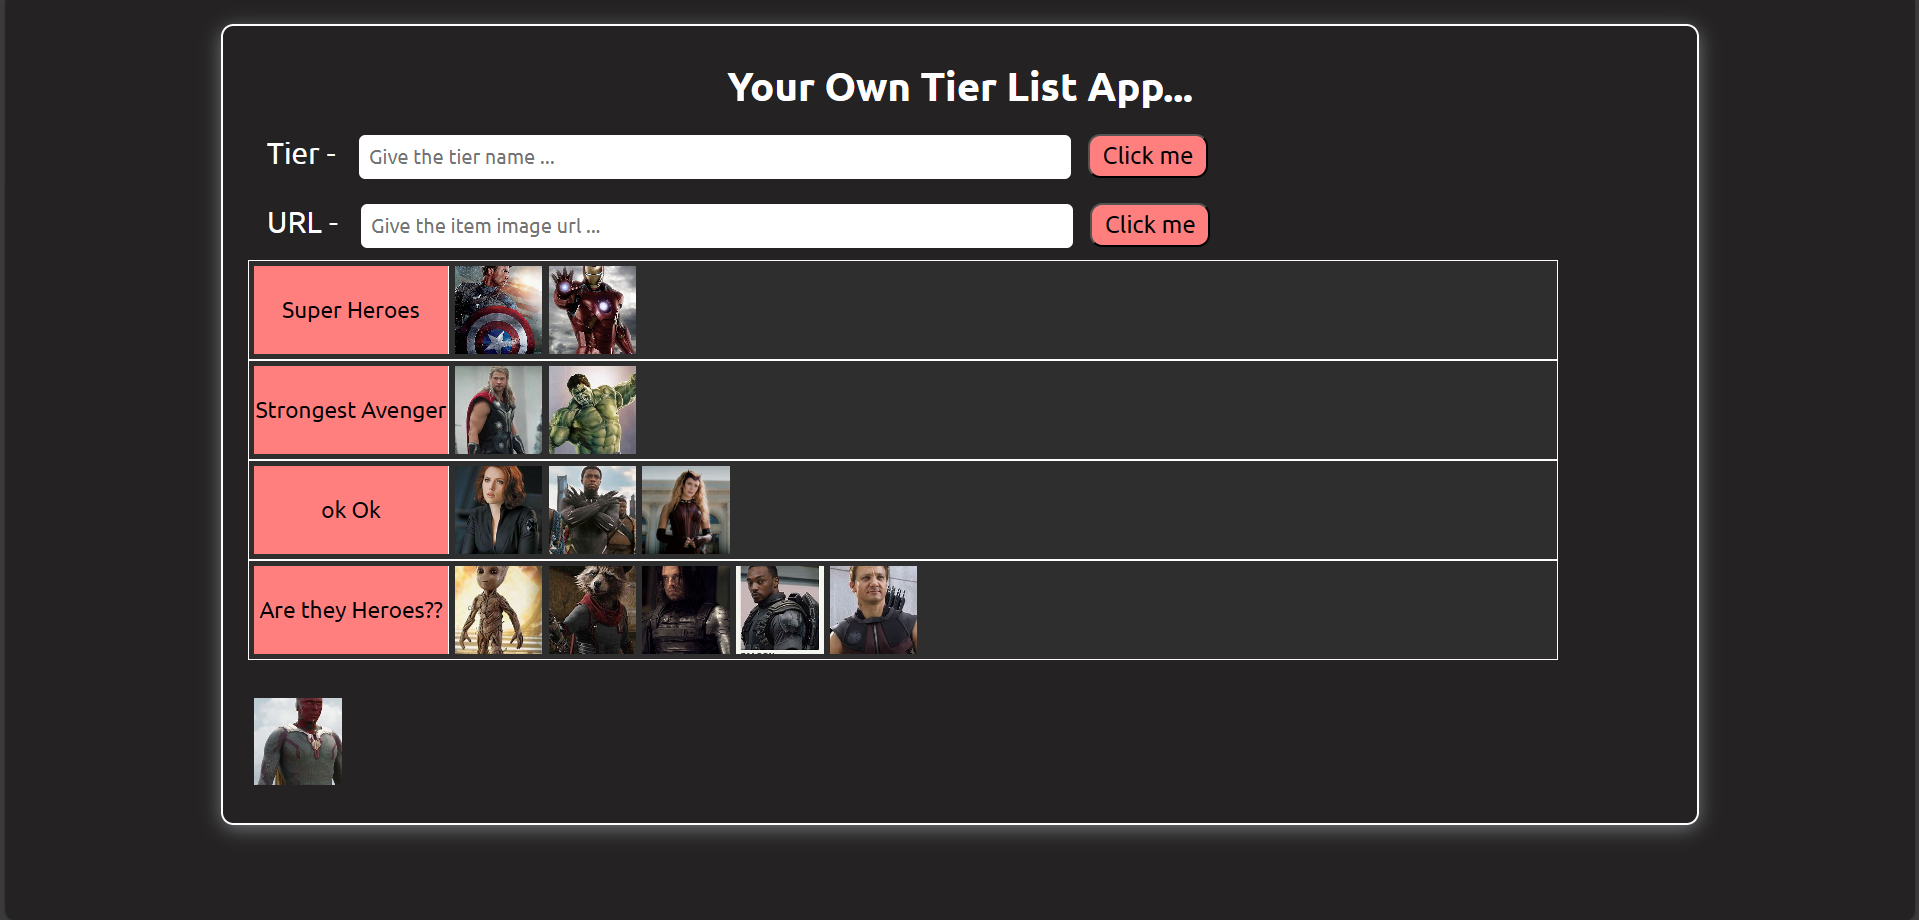
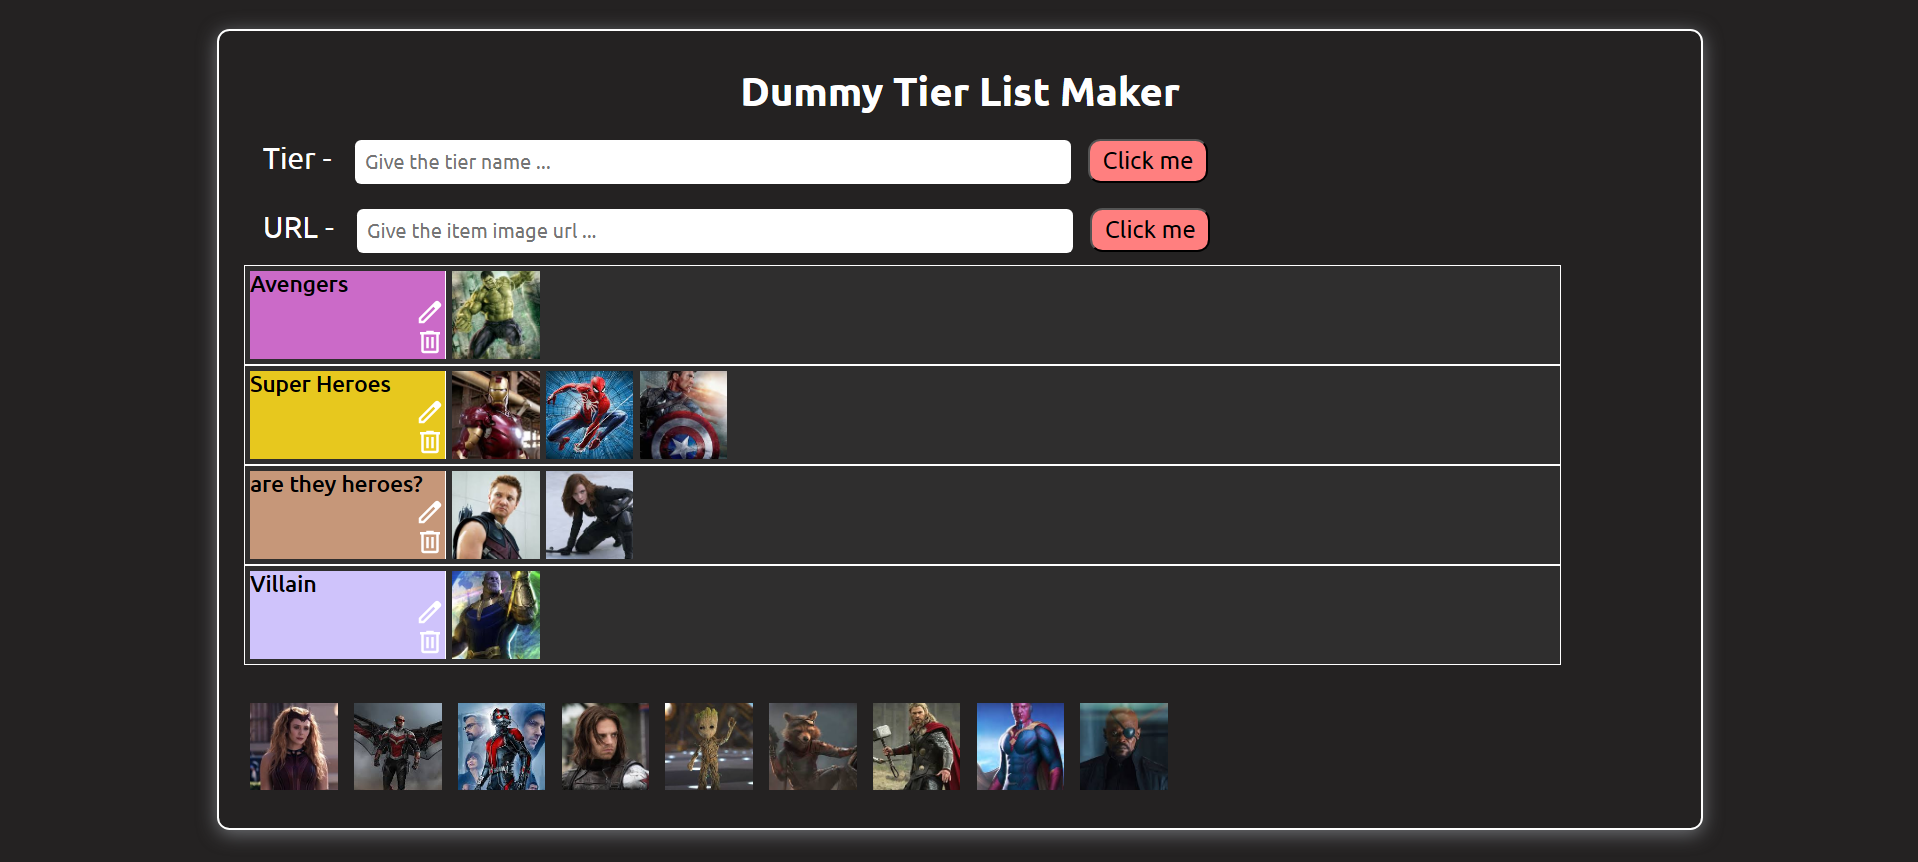
added edit,delete and storage functionality

Changed region(s): [[0.0923, 0.0, 0.8921, 0.9954], [0.9844, 0.9954, 1.0, 1.0]]

diff --git a/script.js b/script.js
@@ -10,8 +10,11 @@ const submitBtn = document.getElementById('submit');
 
 const imageForm = document.getElementById('image-form');
 
+const tierSection = document.getElementById('tier-list-section');
+const nonTierSection = document.getElementById('non-tier-section');
 
-for(const itemContainer of itemContainers) {
+
+for (const itemContainer of itemContainers) {
     setUpItemContainerForDrag(itemContainer);
 }
 
@@ -21,24 +24,28 @@ for(const itemContainer of itemContainers) {
 imageForm.addEventListener('submit', (event) => {
     event.preventDefault();
     const imageItemInput = document.getElementById('image-item');
-    if(imageItemInput.value === '') {
+    if (imageItemInput.value === '') {
         alert('Please enter a valid image url');
         return;
     }
     const imageUrl = imageItemInput.value;
     createTierListItem(imageUrl);
     imageItemInput.value = '';
+
+    saveTierLists()
 });
 
 submitBtn.addEventListener('click', (event) => {
     event.preventDefault(); // stops the default behaviour of the event
     // To get access of the element on which this event was fired
-    if(tierInput.value === '') {
+    if (tierInput.value === '') {
         alert('Please enter a tier name');
         return;
     }
     createTierList(tierInput.value);
     tierInput.value = '';
+
+    saveTierLists()
 });
 
 function createTierList(tierListName) {
@@ -63,8 +70,58 @@ function createTierList(tierListName) {
 
     setUpDropZoneInTierListItem(newTierListItems);
 
-    const tierSection = document.getElementById('tier-list-section');
+    // const tierSection = document.getElementById('tier-list-section');
     tierSection.appendChild(newTierList);
+
+
+    // random color generator on the Heading names
+
+    let color = []
+    for (let i = 0; i < 3; i++) {
+        color.push(Math.floor(Math.random() * 255));
+    }
+
+    // console.log(color);
+    heading.style.backgroundColor = 'rgb(' + color.join(',') + ')';
+
+    // heading.style.color = "" || "White"
+
+    // Making heading editable
+    // heading.contentEditable = true;
+
+    // EDIT icon
+    const editIcon = document.createElement('span');
+    editIcon.classList.add('material-symbols-outlined', 'g-icons')
+    editIcon.style.color = "#FFFFFF"
+    editIcon.style.cursor = "pointer"
+    editIcon.title = "Edit"
+    editIcon.innerHTML = '<svg xmlns="http://www.w3.org/2000/svg" height="24px" viewBox="0 -960 960 960" width="24px" fill="#ffffff"><path d="M200-200h57l391-391-57-57-391 391v57Zm-80 80v-170l528-527q12-11 26.5-17t30.5-6q16 0 31 6t26 18l55 56q12 11 17.5 26t5.5 30q0 16-5.5 30.5T817-647L290-120H120Zm640-584-56-56 56 56Zm-141 85-28-29 57 57-29-28Z"/></svg>'
+    heading.appendChild(editIcon);
+    editIcon.addEventListener('click', () => {
+        heading.contentEditable = true;
+    })
+
+    // Delete icon
+    const deleteIcon = document.createElement('span');
+    deleteIcon.classList.add('material-symbols-outlined', 'g-icons')
+    deleteIcon.style.color = "#FFFFFF"
+    deleteIcon.style.cursor = "pointer"
+    deleteIcon.title = "Delete"
+    deleteIcon.innerHTML = '<svg xmlns="http://www.w3.org/2000/svg" height="24px" viewBox="0 -960 960 960" width="24px" fill="#ffffff"><path d="M280-120q-33 0-56.5-23.5T200-200v-520h-40v-80h200v-40h240v40h200v80h-40v520q0 33-23.5 56.5T680-120H280Zm400-600H280v520h400v-520ZM360-280h80v-360h-80v360Zm160 0h80v-360h-80v360ZM280-720v520-520Z"/></svg>'
+    heading.appendChild(deleteIcon);
+    deleteIcon.addEventListener('click', () => {
+        // Move images back to non-tier section
+        const items = newTierListItems.getElementsByClassName('item-container');
+        while (items.length > 0) {
+            nonTierSection.appendChild(items[0]);
+        }
+        newTierList.remove();
+        saveTierLists();
+    });
+    saveTierLists()
+
+    // localStorage.setItem("Tierlist", newTierList.innerHTML)
+    // localStorage.getItem(newTierList.innerHTML )
 }
 
 function createTierListItem(imageUrl) {
@@ -81,6 +138,9 @@ function createTierListItem(imageUrl) {
 
     const nonTierSection = document.getElementById('non-tier-section');
     nonTierSection.appendChild(imageDiv);
+    
+    saveTierLists()
+
 
 }
 
@@ -94,6 +154,7 @@ function setUpItemContainerForDrag(itemContainer) {
         const parentNode = event.target.parentNode;
         const nonTierSection = document.getElementById('non-tier-section');
         nonTierSection.appendChild(parentNode);
+        saveTierLists()
     });
 }
 
@@ -106,9 +167,54 @@ function setUpDropZoneInTierListItem(tierListItem) {
         // console.log(event.target);
         // event.target.appendChild(currentDraggedItem);
         console.log("event coming up", event);
-        if(this !== currentDraggedItem.parentNode) {
+        if (this !== currentDraggedItem.parentNode) {
             this.appendChild(currentDraggedItem);
         }
-
+        saveTierLists()
     });
 }
+
+// Local Storage Functionality feature
+
+function saveTierLists() {
+    localStorage.setItem("tierLists", tierSection.innerHTML);
+    localStorage.setItem("nonTierItems", nonTierSection.innerHTML);
+}
+
+function showTierLists() {
+    tierSection.innerHTML = localStorage.getItem("tierLists") || '';
+    nonTierSection.innerHTML = localStorage.getItem("nonTierItems") || '';
+
+    const newItemContainers = document.getElementsByClassName('item-container');
+    for (const itemContainer of newItemContainers) {
+        setUpItemContainerForDrag(itemContainer);
+    }
+
+    const newTierListItems = document.getElementsByClassName('tier-list-items');
+    for (const tierListItem of newTierListItems) {
+        setUpDropZoneInTierListItem(tierListItem);
+    }
+
+    const newHeadings = document.getElementsByClassName('heading');
+    for (const heading of newHeadings) {
+        const editIcon = heading.querySelector('.material-symbols-outlined[title="Edit"]');
+        const deleteIcon = heading.querySelector('.material-symbols-outlined[title="Delete"]');
+
+        editIcon.addEventListener('click', () => {
+            heading.contentEditable = true;
+        });
+
+        deleteIcon.addEventListener('click', () => {
+            // Move images back to non-tier section
+            const newTierListItems = heading.nextElementSibling;
+            const items = newTierListItems.getElementsByClassName('item-container');
+            while (items.length > 0) {
+                nonTierSection.appendChild(items[0]);
+            }
+            heading.parentNode.remove();
+            saveTierLists();
+        });
+    }
+}
+
+showTierLists()

diff --git a/index.html b/index.html
@@ -11,6 +11,8 @@
     <link
         href="https://fonts.googleapis.com/css2?family=Ubuntu:ital,wght@0,300;0,400;0,500;0,700;1,300;1,400;1,500;1,700&display=swap"
         rel="stylesheet">
+    <link rel="stylesheet"
+        href="https://fonts.googleapis.com/css2?family=Material+Symbols+Outlined:opsz,wght,FILL,GRAD@24,400,0,0" />
 </head>
 
 <body>
@@ -18,7 +20,7 @@
     <div class="container">
 
         <h1>
-            Your Own Tier List App...
+            Dummy Tier List Maker
         </h1>
 
         <form>
@@ -40,11 +42,23 @@
 
         <section id="tier-list-section">
             <!-- <div class="tier-list">
-            <h1>Sample Tier List</h1>
+                <h1>Sample Tier List
+                </h1>
+
+                <div class="g-icons">
+
+                    <span class="material-symbols-outlined" style="color: #FFFFFF;">
+                        edit
+                    </span>
+                    <span class="material-symbols-outlined" style="color: #FFFFFF;">
+                        delete
+                    </span>
+                </div>
+            </div>
             <div class="tier-list-items">
 
-            </div>
-        </div> -->
+            </div> -->
+
 
         </section>
 

diff --git a/style.css b/style.css
@@ -94,8 +94,14 @@ form > input{
     height: 80px;
     max-width: 92%;
     font-weight: 600;
-
 }
+
+/* .tier-list > .g-icons{
+    display: flex;
+    flex-direction: column;
+    justify-content: center;
+    align-items: center;
+} */
 
 .heading {
     border-right: 1px solid white;
@@ -106,10 +112,17 @@ form > input{
     /* overflow:; */
     word-break:break-all;
     font-size: large;
-    font-weight: lighter;
-    display: flex;
+    font-weight:500;
+    /* display: flex; */
     align-items: center;
-    justify-content: center;
+
+}
+
+.heading > .g-icons{
+  display: flex;
+  justify-content:end;
+  align-items: end;
+
 }
 
 #non-tier-section {
@@ -136,6 +149,8 @@ form > input{
 .tier-list-items {
     min-width: 50%;
     display: flex;
+    /* flex-direction: column; */
+    /* justify-content: space-between; */
 }
 
 .item-container > img {
